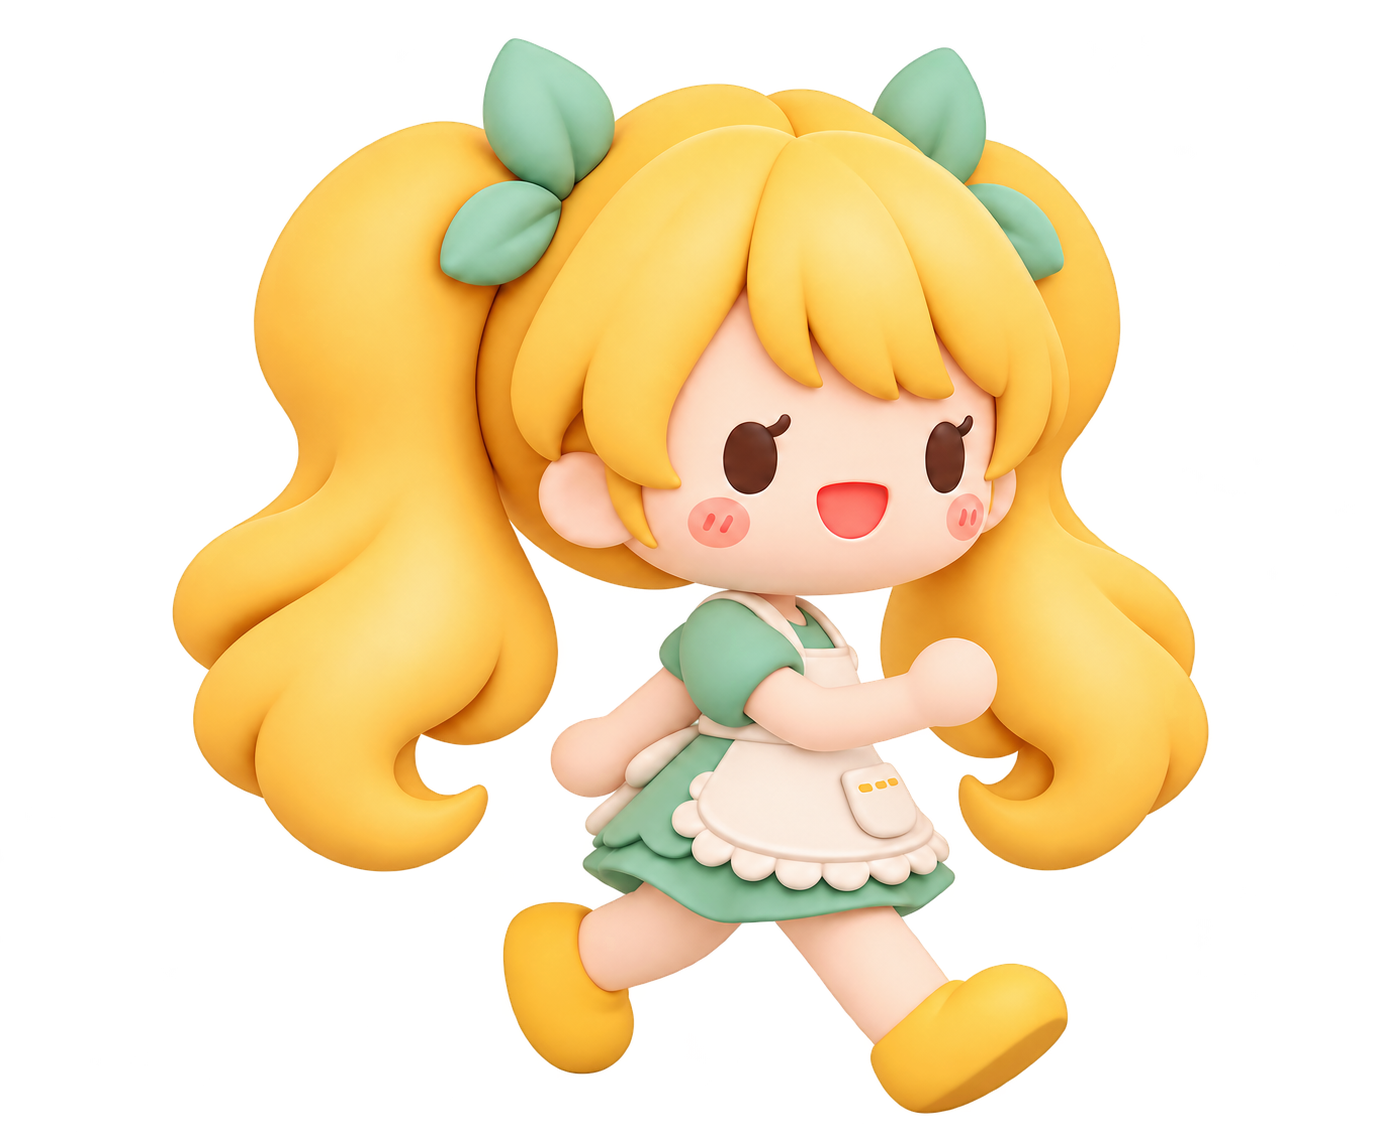
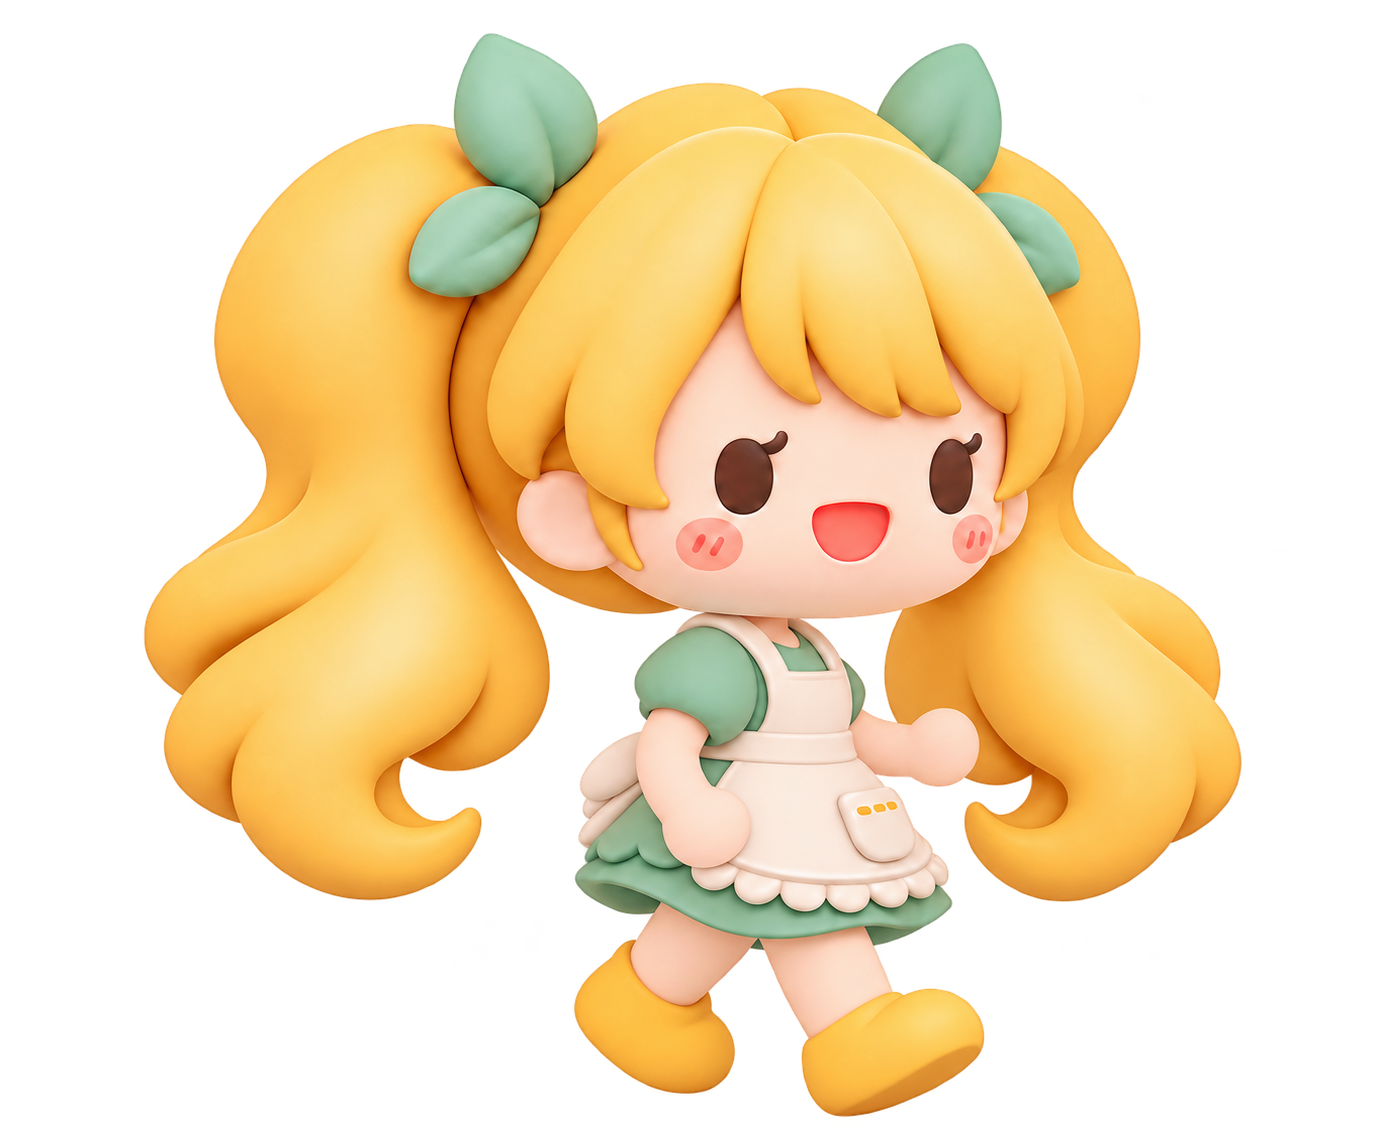
Refine gentle walking sprite depth

diff --git a/public/visit-animation-preview.html b/public/visit-animation-preview.html
@@ -3,10 +3,10 @@
 <head>
   <meta charset="utf-8">
   <meta name="viewport" content="width=device-width, initial-scale=1">
-  <link rel="preload" as="image" href="./mascot/lunumi-walk-right-a.png">
-  <link rel="preload" as="image" href="./mascot/lunumi-walk-right-b.png">
-  <link rel="preload" as="image" href="./mascot/lunumi-jump.png">
-  <link rel="preload" as="image" href="./mascot/lunumi-visit.png">
+  <link rel="preload" as="image" href="./mascot/lunumi-walk-right-a.webp">
+  <link rel="preload" as="image" href="./mascot/lunumi-walk-right-b.webp">
+  <link rel="preload" as="image" href="./mascot/lunumi-jump.webp">
+  <link rel="preload" as="image" href="./mascot/lunumi-visit.webp">
   <title>Lunumi visit animation preview</title>
   <style>
     *{box-sizing:border-box}body{margin:0;min-height:100vh;display:grid;place-items:center;padding:24px;background:#f5f0e5;color:#493a31;font-family:Nunito,Arial,sans-serif}
@@ -16,12 +16,12 @@
     .journey{position:relative;display:flex;align-items:center;min-height:188px;padding:20px 28px;overflow:hidden;background:linear-gradient(120deg,#f7e6b5,#f4efd9 48%,#dcebd5)}
     .journey:before,.journey:after{position:absolute;content:"";width:240px;height:240px;border:1px solid #ffffff70;border-radius:50%;pointer-events:none}.journey:before{right:-112px;top:-145px}.journey:after{left:-173px;bottom:-188px;width:280px;height:280px}
     .route{position:relative;z-index:1;flex:0 0 180px;height:116px}.route-line{position:absolute;left:35px;right:25px;top:57px;border-top:3px dashed #8ba17d;transform:rotate(-15deg);transform-origin:left center;animation:route-draw .7s ease-out both}.pin{position:absolute;right:18px;top:22px;color:#d17c5c}
-    .target{position:absolute;left:17px;top:30px;width:78px;height:78px;display:block;filter:drop-shadow(0 4px 4px #69573a1c)}.walk-frame{position:absolute;inset:0;width:100%;height:100%;object-fit:contain;user-select:none;pointer-events:none}.walk-frame-a{animation:walk-a .43s steps(1,end) infinite}.walk-frame-b{opacity:0;animation:walk-b .43s steps(1,end) infinite}.flight{width:100%;height:100%;object-fit:contain;filter:drop-shadow(0 4px 4px #69573a1c)}
+    .target{position:absolute;left:17px;top:30px;width:78px;height:78px;display:block;filter:drop-shadow(0 4px 4px #69573a1c)}.walk-frame{position:absolute;inset:0;width:100%;height:100%;object-fit:contain;transform-origin:50% 86%;user-select:none;pointer-events:none}.walk-frame-a{animation:walk-a 860ms ease-in-out infinite}.walk-frame-b{opacity:0;animation:walk-b 860ms ease-in-out infinite}.flight{width:100%;height:100%;object-fit:contain;filter:drop-shadow(0 4px 4px #69573a1c)}
     .journey-copy{position:relative;z-index:1;display:grid;gap:8px;max-width:360px;transition:opacity .65s cubic-bezier(.22,.72,.28,1)}.eyebrow{color:#6d8066;font-size:11px;font-weight:800;letter-spacing:1.5px}.journey-copy strong{font-family:Georgia,serif;font-size:24px;line-height:1.15}.journey-copy span:last-child{font-size:13px;color:#796e60}
     .panel{padding:22px 28px 26px;transition:opacity .72s cubic-bezier(.22,.72,.28,1)}.panel h2{margin:0 0 8px;font-family:Georgia,serif;font-size:21px}.panel p{margin:0 0 14px;color:#887c6e;font-size:13px;line-height:1.6}.map{height:178px;margin:12px 0 16px;border:1px solid #e9e0d4;border-radius:17px;background-color:#edf1e8;background-image:linear-gradient(28deg,transparent 47%,#fff 48% 51%,transparent 52%),linear-gradient(110deg,transparent 45%,#fff 46% 49%,transparent 50%),radial-gradient(circle at 73% 35%,#d17c5c 0 5px,transparent 6px);background-size:150px 100px,180px 140px,100% 100%;position:relative}.map:after{content:"Restaurant";position:absolute;top:28%;right:18%;font-size:11px;color:#746a5d}.actions{display:flex;gap:8px}.actions button{flex:1;min-height:43px;border:1px solid #e9e0d4;border-radius:13px;background:#fff;color:#6d8066;font:700 12px inherit}.actions button:first-child{background:#6f9c68;color:#fff;border-color:#6f9c68}
     .flight{position:fixed;z-index:10;pointer-events:none;transform-origin:center center;will-change:transform,opacity;filter:drop-shadow(0 8px 10px #574b2833)}
     .active .panel,.active .journey-copy{opacity:0}.flight-ready .target{visibility:hidden}.arrived .panel,.arrived .journey-copy{opacity:1}
-    @keyframes walk-a{0%,49.99%{opacity:1}50%,100%{opacity:0}}@keyframes walk-b{0%,49.99%{opacity:0}50%,100%{opacity:1}}
+    @keyframes walk-a{0%{opacity:1;transform:rotate(-25deg)}48%,50%{opacity:1;transform:rotate(25deg)}50.01%,100%{opacity:0;transform:rotate(-25deg)}}@keyframes walk-b{0%,48%{opacity:0;transform:rotate(25deg)}50%{opacity:1;transform:rotate(25deg)}98%{opacity:1;transform:rotate(-25deg)}100%{opacity:0;transform:rotate(-25deg)}}
     @keyframes route-draw{from{clip-path:inset(0 100% 0 0)}to{clip-path:inset(0)}}
     @media(max-width:560px){body{padding:12px}.preview{border-radius:22px}.journey{min-height:164px;padding:16px 18px}.route{flex-basis:132px;height:105px}.route-line{left:21px;right:16px;top:54px}.pin{right:9px;top:23px}.target{left:5px;top:28px;width:69px;height:69px}.journey-copy strong{font-size:19px}.journey-copy span:last-child{font-size:11px}.panel{padding:18px 20px 22px}.map{height:155px}}
     @media(prefers-reduced-motion:reduce){.walk-frame{animation:none}.walk-frame-b{opacity:0}.route-line{animation:none}}
@@ -31,23 +31,23 @@
   <main class="preview" id="preview">
     <header class="toolbar"><strong>Visit transition · animation preview</strong><button id="replay" type="button">Replay</button></header>
     <section class="journey">
-      <div class="route" aria-hidden="true"><span class="route-line"></span><span class="pin">📍</span><span class="target" id="target"><img class="walk-frame walk-frame-a" src="./mascot/lunumi-walk-right-a.png" alt="" draggable="false"><img class="walk-frame walk-frame-b" src="./mascot/lunumi-walk-right-b.png" alt="" draggable="false"></span></div>
+      <div class="route" aria-hidden="true"><span class="route-line"></span><span class="pin">📍</span><span class="target" id="target"><img class="walk-frame walk-frame-a" src="./mascot/lunumi-walk-right-a.webp" alt="" draggable="false"><img class="walk-frame walk-frame-b" src="./mascot/lunumi-walk-right-b.webp" alt="" draggable="false"></span></div>
       <div class="journey-copy"><span class="eyebrow">A LITTLE ADVENTURE</span><strong>On our way to Momotoko</strong><span>Good food is just around the corner.</span></div>
     </section>
     <section class="panel"><h2>Your next stop</h2><p>Momotoko · Japanese · 1.2 km away</p><div class="map" aria-hidden="true"></div><div class="actions"><button>Directions to Momotoko ↗</button><button>Mark as visited</button></div></section>
   </main>
   <script>
     const card=document.querySelector('#preview'), target=document.querySelector('#target');
-    const walkSprites=['./mascot/lunumi-walk-right-a.png','./mascot/lunumi-walk-right-b.png'].map(src=>{const image=new Image();image.src=src;return image});
+    const walkSprites=['./mascot/lunumi-walk-right-a.webp','./mascot/lunumi-walk-right-b.webp'].map(src=>{const image=new Image();image.src=src;return image});
     async function replay(){
       card.classList.remove('active','arrived');
       await new Promise(requestAnimationFrame); await new Promise(requestAnimationFrame);
       const rect=target.getBoundingClientRect(), width=rect.width*2, height=rect.height*2;
       const left=(innerWidth-width)/2, bottom=innerHeight+12, centerY=(innerHeight-height)/2-bottom;
       const destX=rect.left+rect.width/2-innerWidth/2, destY=rect.top+rect.height/2-(bottom+height/2), scale=rect.width/width;
-      const sprite=document.createElement('img'); sprite.className='flight'; sprite.src='./mascot/lunumi-jump.png';
+      const sprite=document.createElement('img'); sprite.className='flight'; sprite.src='./mascot/lunumi-jump.webp';
       Object.assign(sprite.style,{left:`${left}px`,top:`${bottom}px`,width:`${width}px`,height:`${height}px`});
-      const jump=new Image(); jump.src='./mascot/lunumi-jump.png'; const settle=new Image(); settle.src='./mascot/lunumi-visit.png';
+      const jump=new Image(); jump.src='./mascot/lunumi-jump.webp'; const settle=new Image(); settle.src='./mascot/lunumi-visit.webp';
       await Promise.all([...walkSprites.map(image=>image.decode()), jump.decode(), settle.decode()]);
       document.body.appendChild(sprite);
       card.classList.add('active','flight-ready');
@@ -57,8 +57,8 @@
         {opacity:1,transform:`translate3d(0,${centerY+7}px,0) scale(.97) rotate(3deg)`,offset:.84,easing:'cubic-bezier(.2,.7,.3,1)'},
         {opacity:1,transform:`translate3d(0,${centerY}px,0) scale(1) rotate(0deg)`,offset:1}
       ],{duration:1050,easing:'cubic-bezier(.22,.72,.28,1)',fill:'forwards'});
-      await jumpMotion.finished; sprite.src='./mascot/lunumi-visit.png'; await new Promise(r=>setTimeout(r,110));
-      sprite.src='./mascot/lunumi-walk-right-a.png'; let walk=0; const walkTimer=setInterval(()=>{sprite.src=walkSprites[walk++%2].src;},150);
+      await jumpMotion.finished; sprite.src='./mascot/lunumi-visit.webp'; await new Promise(r=>setTimeout(r,110));
+      sprite.src='./mascot/lunumi-walk-right-a.webp'; let walk=0; const walkTimer=setInterval(()=>{sprite.src=walkSprites[walk++%2].src;},300);
       const move=sprite.animate([
         {opacity:1,transform:`translate3d(0,${centerY}px,0) scale(1) rotate(0deg)`},
         {opacity:1,transform:`translate3d(${destX}px,${destY}px,0) scale(${scale}) rotate(0deg)`}

diff --git a/src/style.css b/src/style.css
@@ -269,8 +269,8 @@ body .app-shell .search-dock>.controls{margin:0;padding:3px 8px 2px}
 .visit-route-pin{position:absolute;right:18px;top:22px;color:#d17c5c;filter:drop-shadow(0 3px 3px #80644733);animation:pin-arrive .8s .2s both}
 .visit-character{position:absolute;left:17px;top:30px;width:78px;height:78px;display:block;filter:drop-shadow(0 4px 4px #69573a1c)}
 .visit-character-frame{position:absolute;inset:0;width:100%;height:100%;object-fit:contain;user-select:none;pointer-events:none}
-.visit-character-frame-a{animation:lunumi-step-a 430ms steps(1,end) infinite}
-.visit-character-frame-b{opacity:0;animation:lunumi-step-b 430ms steps(1,end) infinite}
+.visit-character-frame-a{transform-origin:50% 86%;animation:lunumi-step-a 860ms ease-in-out infinite}
+.visit-character-frame-b{opacity:0;transform-origin:50% 86%;animation:lunumi-step-b 860ms ease-in-out infinite}
 .visit-journey-copy{position:relative;z-index:1;display:grid;gap:7px;max-width:330px}
 .visit-journey-copy .eyebrow{color:#6d8066}.visit-journey-copy strong{font-family:Georgia,serif;font-size:22px;line-height:1.15;color:#493a31}.visit-journey-copy>span:last-child{font-size:12px;color:#796e60}
 .visit-title{display:flex;align-items:center;justify-content:space-between;gap:12px;margin:0 0 14px}
@@ -295,8 +295,8 @@ body .app-shell .search-dock>.controls{margin:0;padding:3px 8px 2px}
 .visit-flight-character{position:fixed;z-index:1200;object-fit:contain;pointer-events:none;filter:drop-shadow(0 8px 10px #574b2833);transform-origin:center center;will-change:transform,opacity}
 .visit-flight-active .visit-character{visibility:hidden}
 .visit-character{z-index:1;will-change:opacity}
-@keyframes lunumi-step-a{0%,49.99%{opacity:1}50%,100%{opacity:0}}
-@keyframes lunumi-step-b{0%,49.99%{opacity:0}50%,100%{opacity:1}}
+@keyframes lunumi-step-a{0%{opacity:1;transform:rotate(-25deg)}48%,50%{opacity:1;transform:rotate(25deg)}50.01%,100%{opacity:0;transform:rotate(-25deg)}}
+@keyframes lunumi-step-b{0%,48%{opacity:0;transform:rotate(25deg)}50%{opacity:1;transform:rotate(25deg)}98%{opacity:1;transform:rotate(-25deg)}100%{opacity:0;transform:rotate(-25deg)}}
 @media(prefers-reduced-motion:reduce){.visit-flight-character{display:none}}
 .place-detail.visit-mode .place-detail-content,.place-detail.visit-mode .place-detail-bottom-bar,.place-detail.visit-mode .visit-journey-copy{opacity:1;transition:opacity 720ms cubic-bezier(.22,.72,.28,1)}
 .place-detail.visit-mode.visit-intro-active .place-detail-content,.place-detail.visit-mode.visit-intro-active .place-detail-bottom-bar,.place-detail.visit-mode.visit-intro-active .visit-journey-copy{opacity:0;transition:none}

diff --git a/src/PlaceCard.tsx b/src/PlaceCard.tsx
@@ -5,14 +5,14 @@ import type { Place } from './core';
 import { openingHoursStatus } from './opening-hours';
 import RestaurantPhoto from './RestaurantPhoto';
 
-const visitCharacterSrc = new URL('mascot/lunumi-visit.png', document.baseURI).href;
-const visitJumpSrc = new URL('mascot/lunumi-jump.png', document.baseURI).href;
+const visitCharacterSrc = new URL('mascot/lunumi-visit.webp', document.baseURI).href;
+const visitJumpSrc = new URL('mascot/lunumi-jump.webp', document.baseURI).href;
 const visitCharacterPreload = new Image();
 visitCharacterPreload.src = visitCharacterSrc;
 const visitJumpPreload = new Image();
 visitJumpPreload.src = visitJumpSrc;
-const visitWalkFrameASrc = new URL('mascot/lunumi-walk-right-a.png', document.baseURI).href;
-const visitWalkFrameBSrc = new URL('mascot/lunumi-walk-right-b.png', document.baseURI).href;
+const visitWalkFrameASrc = new URL('mascot/lunumi-walk-right-a.webp', document.baseURI).href;
+const visitWalkFrameBSrc = new URL('mascot/lunumi-walk-right-b.webp', document.baseURI).href;
 const visitWalkFrameAPreload = new Image();
 const visitWalkFrameBPreload = new Image();
 visitWalkFrameAPreload.src = visitWalkFrameASrc;
@@ -116,7 +116,7 @@ export default function PlaceCard({ place, favorite, status, sentiment, dietary,
         overlay.src = visitWalkFrameASrc;
         walkTimer = window.setInterval(() => {
           if (overlay) overlay.src = overlay.src === visitWalkFrameASrc ? visitWalkFrameBSrc : visitWalkFrameASrc;
-        }, 150);
+        }, 300);
         animation = overlay.animate([
           { opacity: 1, transform: `translate3d(0,${centerY}px,0) scale(1) rotate(0deg)` },
           { opacity: 1, transform: `translate3d(${destinationX}px,${destinationY}px,0) scale(${destinationScale}) rotate(0deg)` },

diff --git a/index.html b/index.html
@@ -1,1 +1,1 @@
-<!doctype html><html lang="en"><head><meta charset="UTF-8"/><meta name="viewport" content="width=device-width, initial-scale=1.0"/><meta name="theme-color" content="#fff8f0"/><meta name="description" content="Find something lovely to eat nearby."/><link rel="preload" as="image" href="%BASE_URL%mascot/lunumi-visit.png"/><link rel="preload" as="image" href="%BASE_URL%mascot/lunumi-jump.png"/><link rel="preload" as="image" href="%BASE_URL%mascot/lunumi-walk-right-a.png"/><link rel="preload" as="image" href="%BASE_URL%mascot/lunumi-walk-right-b.png"/><link rel="icon" type="image/png" href="%BASE_URL%lunumi-app-icon.png"/><link rel="apple-touch-icon" href="%BASE_URL%lunumi-app-icon.png"/><title>Lunumi — food, found nearby</title></head><body><div id="root"></div><script type="module" src="/src/main.tsx"></script></body></html>
+<!doctype html><html lang="en"><head><meta charset="UTF-8"/><meta name="viewport" content="width=device-width, initial-scale=1.0"/><meta name="theme-color" content="#fff8f0"/><meta name="description" content="Find something lovely to eat nearby."/><link rel="preload" as="image" href="%BASE_URL%mascot/lunumi-visit.webp"/><link rel="preload" as="image" href="%BASE_URL%mascot/lunumi-jump.webp"/><link rel="preload" as="image" href="%BASE_URL%mascot/lunumi-walk-right-a.webp"/><link rel="preload" as="image" href="%BASE_URL%mascot/lunumi-walk-right-b.webp"/><link rel="icon" type="image/png" href="%BASE_URL%lunumi-app-icon.png"/><link rel="apple-touch-icon" href="%BASE_URL%lunumi-app-icon.png"/><title>Lunumi — food, found nearby</title></head><body><div id="root"></div><script type="module" src="/src/main.tsx"></script></body></html>
